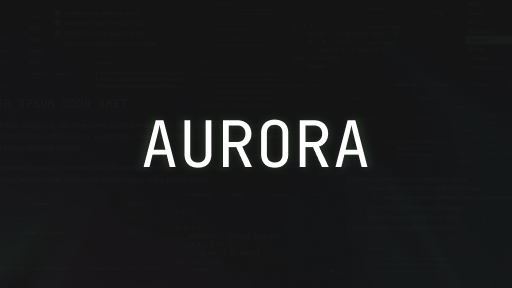
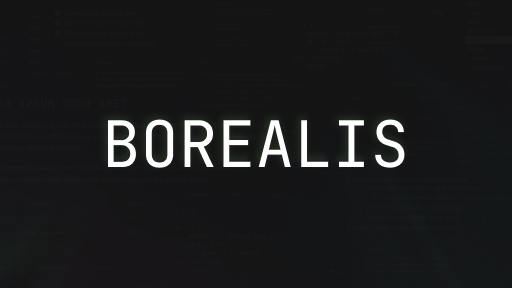
Replaces Aurora to Borealis

Changed region(s): [[0.1875, 0.4062, 0.8125, 0.5938]]

diff --git a/theme.css b/theme.css
@@ -807,8 +807,8 @@ https://github.com/chriskempson/tomorrow-theme/tree/master
 
 /* @settings
 
-name: Aurora
-id: obsidian-aurora
+name: Borealis
+id: obsidian-borealis
 settings:
   -
     id: heading-colors-text

diff --git a/README.md b/README.md
@@ -1,4 +1,4 @@
-![Aurora](docs/Aurora.png)
+![borealis](docs/borealis.png)
 
 An obsidian theme inspired by the vibrant colors of the aurora borealis, illuminating the night.
 
@@ -23,13 +23,13 @@ A minimalist theme with two main colors that allows you to stay focused and crea
 ## Preview
 
 ### Dark
-![Aurora](docs/dark.png)
+![borealis](docs/dark.png)
 
 ### Light
-![Aurora](docs/light.png)
+![borealis](docs/light.png)
 
 ### Checkbox
-![Aurora](docs/checkbox.png)
+![borealis](docs/checkbox.png)
 ```
 - [x] Lorem ipsum dolor sit amet
 - [x] Accumsan risus senectus nulla
@@ -38,7 +38,7 @@ A minimalist theme with two main colors that allows you to stay focused and crea
 ```
 
 ### Buttons
-![Aurora](docs/button.png)
+![borealis](docs/button.png)
 ```html
 <button class="primary">+ Backlog</button>
 <button class="primary">+ Task</button>
@@ -47,7 +47,7 @@ A minimalist theme with two main colors that allows you to stay focused and crea
 ```
 
 ### Callout
-![Aurora](docs/callout.png)
+![borealis](docs/callout.png)
 ```
 > [!primary] Primary
 > - Lorem ipsum odor amet, consectetuer adipiscing
@@ -61,21 +61,21 @@ A minimalist theme with two main colors that allows you to stay focused and crea
 ```
 
 ### List
-![Aurora](docs/list.png)
+![borealis](docs/list.png)
 
 ### Table
-![Aurora](docs/table.png)
+![borealis](docs/table.png)
 
 ### Dataview
-![Aurora](docs/dataview-table.png)
+![borealis](docs/dataview-table.png)
 
-![Aurora](docs/dataview-task.png)
+![borealis](docs/dataview-task.png)
 
 ### Blockquote
-![Aurora](docs/blockquote.png)
+![borealis](docs/blockquote.png)
 
 ### Properties
-![Aurora](docs/properties.png)
+![borealis](docs/properties.png)
 
 ## Settings
 
